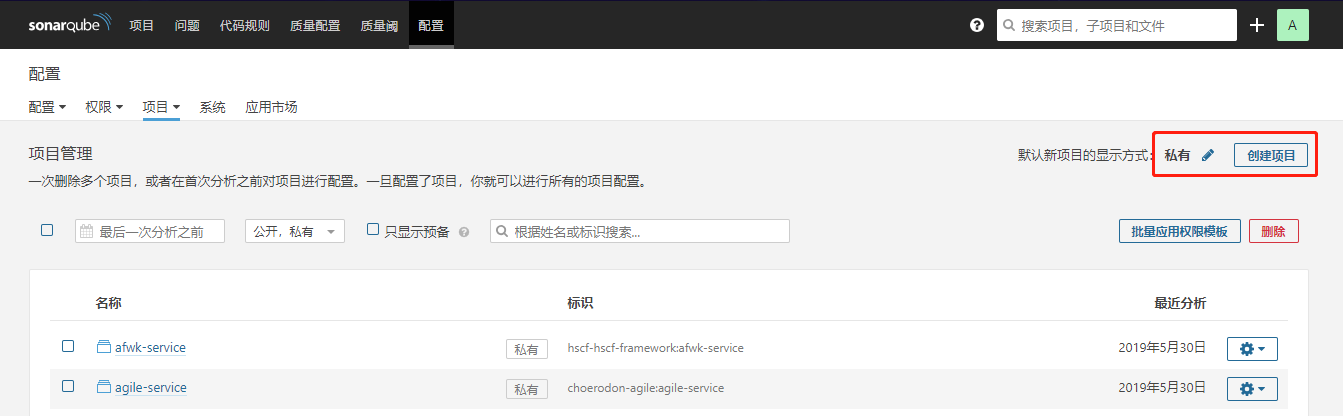
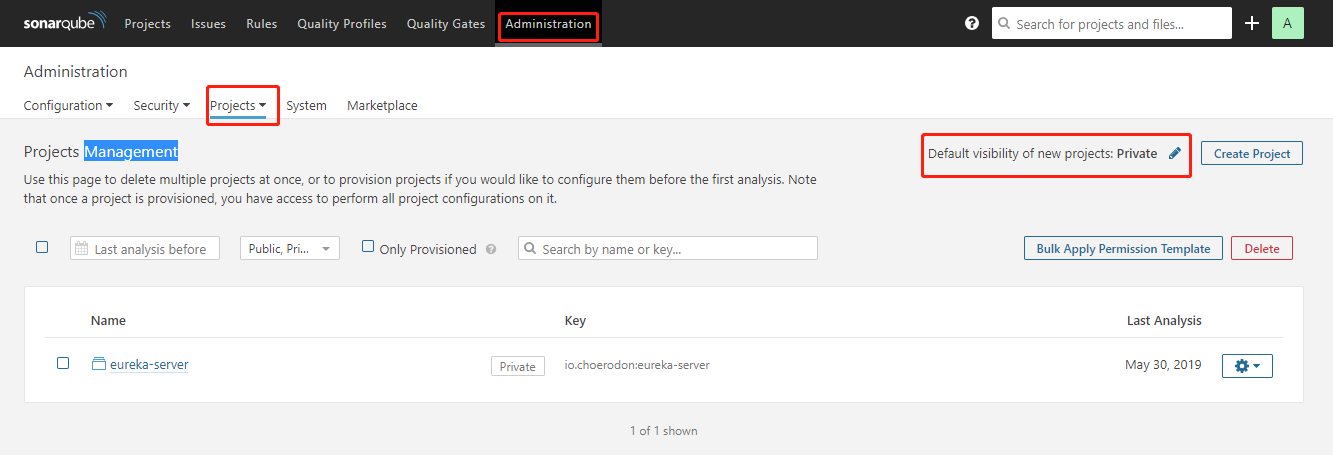
[IMP] 修改sonarqube插件配置

diff --git a/content/docs/installation-configuration/steps/install/parts/base/sonarqube.md b/content/docs/installation-configuration/steps/install/parts/base/sonarqube.md
@@ -86,19 +86,35 @@ helm install c7n/sonarqube \
         --namespace c7n-system
     ```
 
-### 初始化SonarQube权限
-- 使用admin登录SonarQube
-- 配置默认新建项目为私有, 进入配置 -> 项目 -> 管理页面
-    ![](/docs/installation-configuration/image/sonarqube_1.png)
-   
-- 更改默认权限模板, 进入配置 -> 权限 -> 权限模板,去掉Anyone所有权限
-    ![](/docs/installation-configuration/image/sonarqube_2.png)
+### 初始化sonarqube权限
+- 使用admin登录soanr
+- 配置默认新建项目为私有, 进入Administration -> Projects -> Management
 
-## 配置插件
-- 使用admin用户登录SonarQube
-- 进入配置 -> choerodon
-- 更改Choerodon url为当前使用的choerodon api getaway地址 ；默认地址为：`http://api.example.choerodon.io`
+   ![](/docs/installation-configuration/image/sonarqube_1.png)
+   
+- 更改默认权限模板, 进入Administration -> Security -> Permission Templates,去掉sonar-users用户组所有权限
+
+   ![](/docs/installation-configuration/image/sonarqube_2.png)
+   ![](/docs/installation-configuration/image/sonarqube_3.png)
+   
+###  下载soanr-choerodon插件
+- 进入sonar安装目录，切换到目录：sonarqube\extensions\plugins
+- 下载soanr-choerodon插件
+````
+curl -o sonar-auth-choerodonoauth-plugin-1.0-RELEASE.jar https://file.choerodon.com.cn/choerodon-install/sonarqube/sonar-auth-choerodonoauth-plugin-1.0-RELEASE.jar
+````
+###  重启soanrQube服务
+- 使用docker命令：docker restart sonar
+- 或者使用admin登录，在Administration -> System界面，点击重启服务
+
+### 配置插件
+- 使用admin登录soanrQube
+- 进入Administration -> choerodon
+- 更改choerodon url为当前使用的choerodon getaway地址；默认地址为：http://api.example.choerodon.io
+
+   ![](/docs/installation-configuration/image/sonarqube_4.png)
+   
 - 退出登录，测试使用choerodon登录,出现如下界面
 
-    ![](/docs/installation-configuration/image/sonarqube_3.png)
+   ![](/docs/installation-configuration/image/sonarqube_5.png)
    
